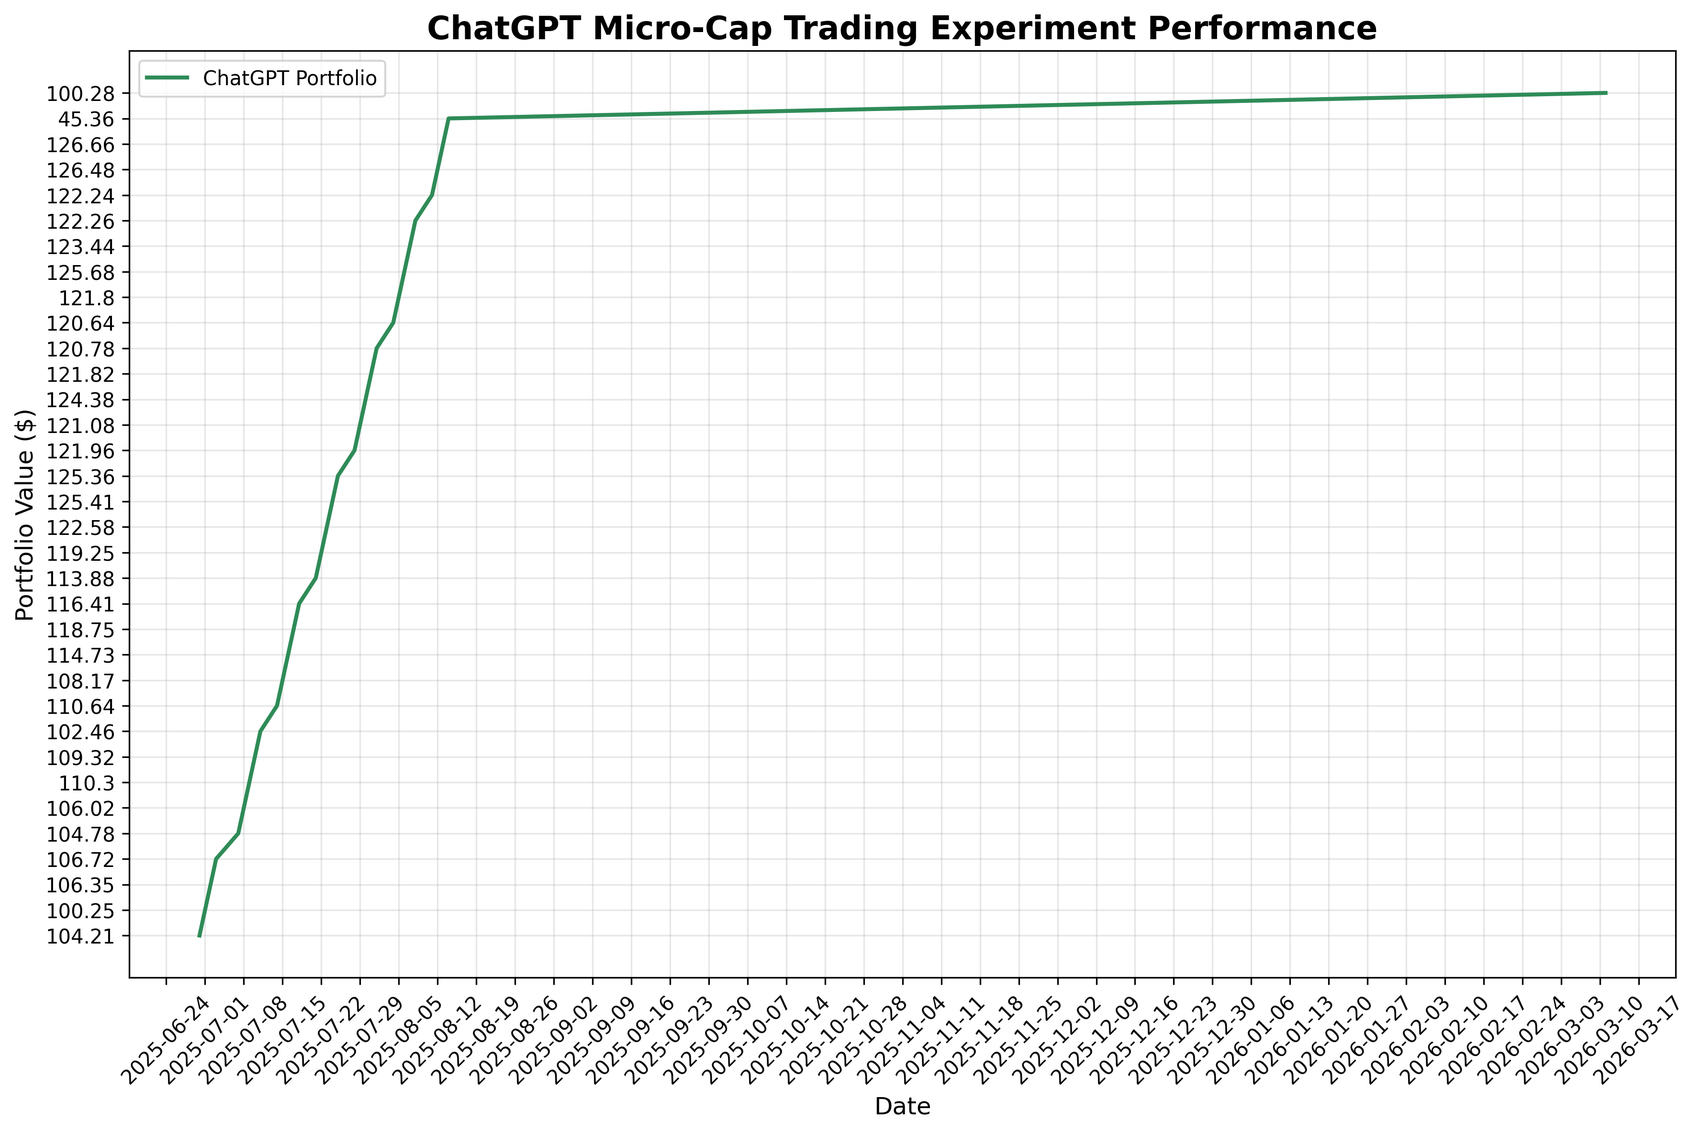
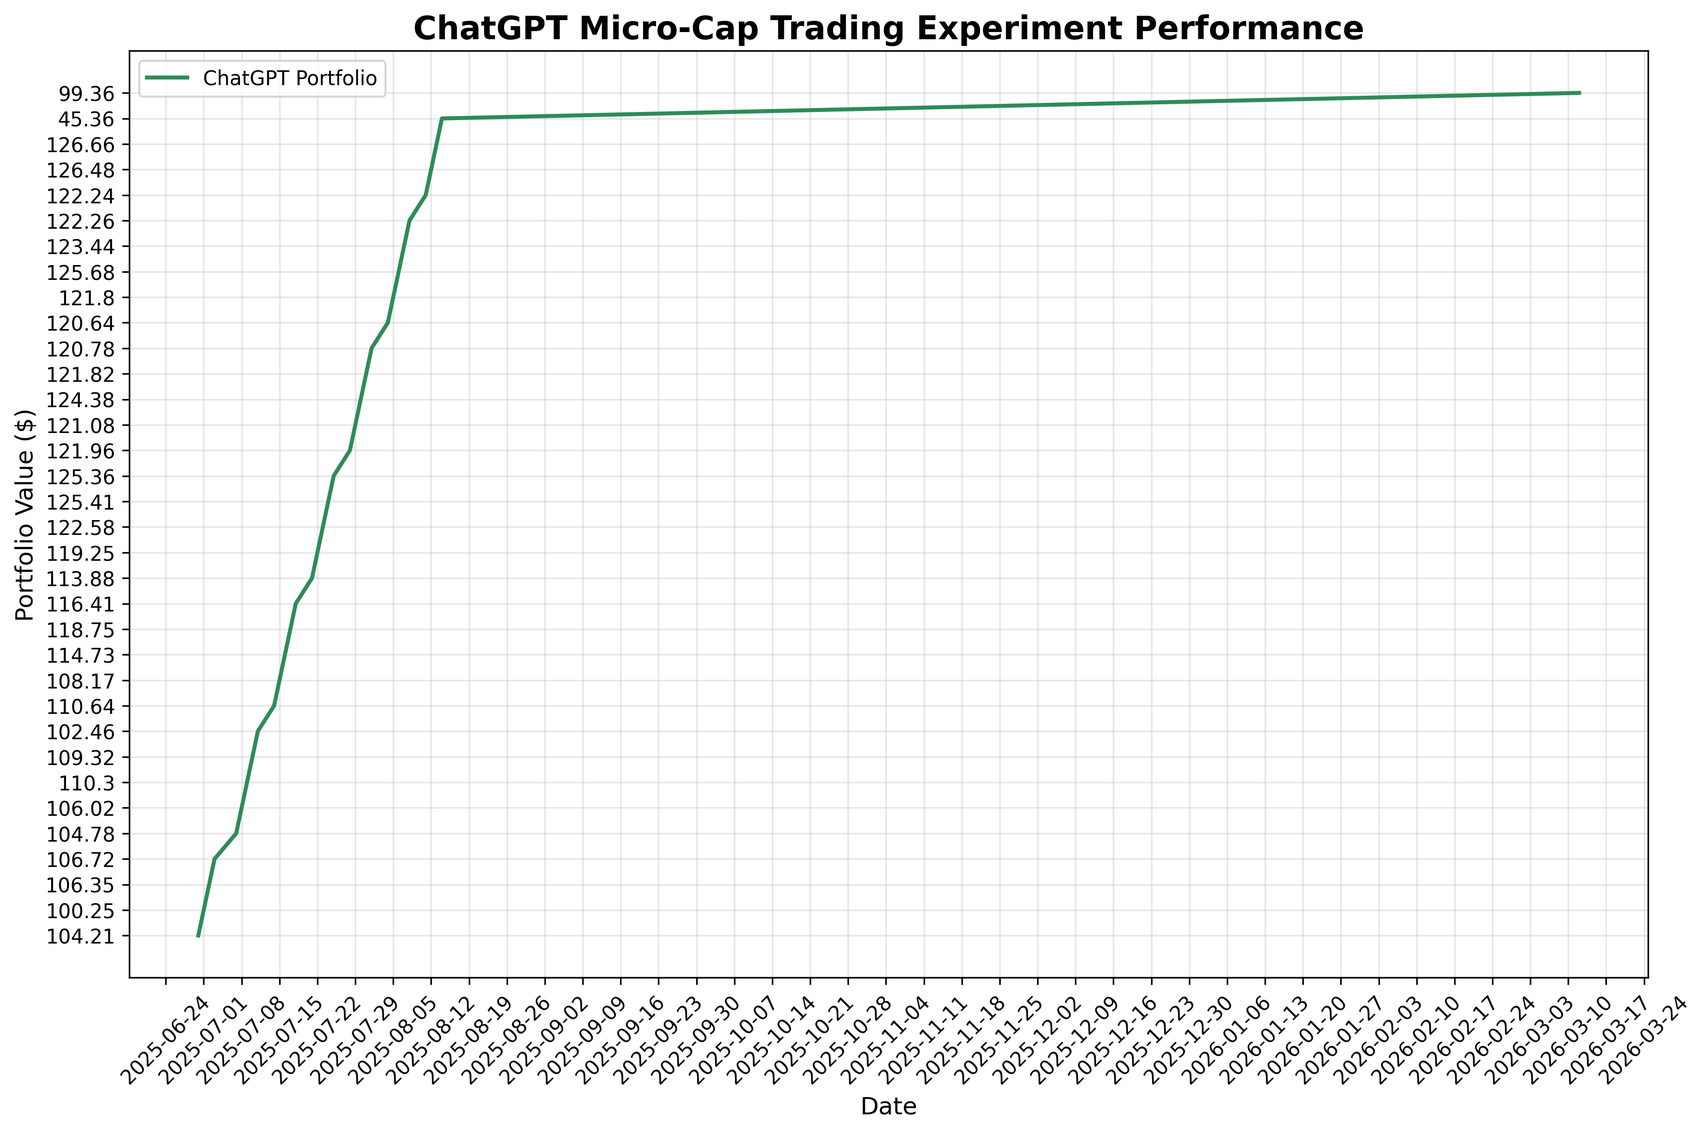
deploy: e15cad030d70fb3fbb51f9df6e22fa70c2f175c0

diff --git a/index.html b/index.html
@@ -101,11 +101,11 @@
                 <div class="stat-label">Total Equity</div>
             </div>
             <div class="stat-card">
-                <div class="stat-value" id="total-trades">12</div>
+                <div class="stat-value" id="total-trades">13</div>
                 <div class="stat-label">Total Trades</div>
             </div>
             <div class="stat-card">
-                <div class="stat-value" id="last-updated">2026-03-11</div>
+                <div class="stat-value" id="last-updated">2026-03-12</div>
                 <div class="stat-label">Last Updated</div>
             </div>
         </div>
@@ -160,8 +160,8 @@
     
     <script>
         // Portfolio data
-        const portfolioData = JSON.parse("[{&quot;Date&quot;: &quot;2025-08-11&quot;, &quot;Ticker&quot;: &quot;ABEO&quot;, &quot;Shares&quot;: 4.0, &quot;Buy Price&quot;: 5.77, &quot;Cost Basis&quot;: 23.08, &quot;Stop Loss&quot;: 4.9, &quot;Current Price&quot;: 6.28, &quot;Total Value&quot;: 25.12, &quot;PnL&quot;: 2.04, &quot;Action&quot;: &quot;HOLD&quot;, &quot;Cash Balance&quot;: NaN, &quot;Total Equity&quot;: NaN}, {&quot;Date&quot;: &quot;2025-08-11&quot;, &quot;Ticker&quot;: &quot;ACTU&quot;, &quot;Shares&quot;: 6.0, &quot;Buy Price&quot;: 5.75, &quot;Cost Basis&quot;: 34.5, &quot;Stop Loss&quot;: 4.89, &quot;Current Price&quot;: 8.01, &quot;Total Value&quot;: 48.06, &quot;PnL&quot;: 13.56, &quot;Action&quot;: &quot;HOLD&quot;, &quot;Cash Balance&quot;: NaN, &quot;Total Equity&quot;: NaN}, {&quot;Date&quot;: &quot;2025-08-11&quot;, &quot;Ticker&quot;: &quot;ESPR&quot;, &quot;Shares&quot;: 2.0, &quot;Buy Price&quot;: 1.91, &quot;Cost Basis&quot;: 3.82, &quot;Stop Loss&quot;: 1.6, &quot;Current Price&quot;: 1.85, &quot;Total Value&quot;: 3.7, &quot;PnL&quot;: -0.12, &quot;Action&quot;: &quot;HOLD&quot;, &quot;Cash Balance&quot;: NaN, &quot;Total Equity&quot;: NaN}, {&quot;Date&quot;: &quot;2025-08-11&quot;, &quot;Ticker&quot;: &quot;TOTAL&quot;, &quot;Shares&quot;: NaN, &quot;Buy Price&quot;: NaN, &quot;Cost Basis&quot;: NaN, &quot;Stop Loss&quot;: NaN, &quot;Current Price&quot;: NaN, &quot;Total Value&quot;: 76.88, &quot;PnL&quot;: 15.48, &quot;Action&quot;: NaN, &quot;Cash Balance&quot;: 45.36, &quot;Total Equity&quot;: &quot;122.24&quot;}, {&quot;Date&quot;: &quot;2025-08-12&quot;, &quot;Ticker&quot;: &quot;ABEO&quot;, &quot;Shares&quot;: 4.0, &quot;Buy Price&quot;: 5.77, &quot;Cost Basis&quot;: 23.08, &quot;Stop Loss&quot;: 4.9, &quot;Current Price&quot;: 6.38, &quot;Total Value&quot;: 25.52, &quot;PnL&quot;: 2.44, &quot;Action&quot;: &quot;HOLD&quot;, &quot;Cash Balance&quot;: NaN, &quot;Total Equity&quot;: NaN}, {&quot;Date&quot;: &quot;2025-08-12&quot;, &quot;Ticker&quot;: &quot;ACTU&quot;, &quot;Shares&quot;: 6.0, &quot;Buy Price&quot;: 5.75, &quot;Cost Basis&quot;: 34.5, &quot;Stop Loss&quot;: 4.89, &quot;Current Price&quot;: 8.67, &quot;Total Value&quot;: 52.02, &quot;PnL&quot;: 17.52, &quot;Action&quot;: &quot;HOLD&quot;, &quot;Cash Balance&quot;: NaN, &quot;Total Equity&quot;: NaN}, {&quot;Date&quot;: &quot;2025-08-12&quot;, &quot;Ticker&quot;: &quot;ESPR&quot;, &quot;Shares&quot;: 2.0, &quot;Buy Price&quot;: 1.91, &quot;Cost Basis&quot;: 3.82, &quot;Stop Loss&quot;: 1.6, &quot;Current Price&quot;: 1.79, &quot;Total Value&quot;: 3.58, &quot;PnL&quot;: -0.24, &quot;Action&quot;: &quot;HOLD&quot;, &quot;Cash Balance&quot;: NaN, &quot;Total Equity&quot;: NaN}, {&quot;Date&quot;: &quot;2025-08-12&quot;, &quot;Ticker&quot;: &quot;TOTAL&quot;, &quot;Shares&quot;: NaN, &quot;Buy Price&quot;: NaN, &quot;Cost Basis&quot;: NaN, &quot;Stop Loss&quot;: NaN, &quot;Current Price&quot;: NaN, &quot;Total Value&quot;: 81.12, &quot;PnL&quot;: 19.72, &quot;Action&quot;: NaN, &quot;Cash Balance&quot;: 45.36, &quot;Total Equity&quot;: &quot;126.48&quot;}, {&quot;Date&quot;: &quot;2025-08-13&quot;, &quot;Ticker&quot;: &quot;ABEO&quot;, &quot;Shares&quot;: 4.0, &quot;Buy Price&quot;: 5.77, &quot;Cost Basis&quot;: 23.08, &quot;Stop Loss&quot;: 4.9, &quot;Current Price&quot;: 6.56, &quot;Total Value&quot;: 26.24, &quot;PnL&quot;: 3.16, &quot;Action&quot;: &quot;HOLD&quot;, &quot;Cash Balance&quot;: NaN, &quot;Total Equity&quot;: NaN}, {&quot;Date&quot;: &quot;2025-08-13&quot;, &quot;Ticker&quot;: &quot;ACTU&quot;, &quot;Shares&quot;: 6.0, &quot;Buy Price&quot;: 5.75, &quot;Cost Basis&quot;: 34.5, &quot;Stop Loss&quot;: 4.89, &quot;Current Price&quot;: 8.53, &quot;Total Value&quot;: 51.18, &quot;PnL&quot;: 16.68, &quot;Action&quot;: &quot;HOLD&quot;, &quot;Cash Balance&quot;: NaN, &quot;Total Equity&quot;: NaN}, {&quot;Date&quot;: &quot;2025-08-13&quot;, &quot;Ticker&quot;: &quot;ESPR&quot;, &quot;Shares&quot;: 2.0, &quot;Buy Price&quot;: 1.91, &quot;Cost Basis&quot;: 3.82, &quot;Stop Loss&quot;: 1.6, &quot;Current Price&quot;: 1.94, &quot;Total Value&quot;: 3.88, &quot;PnL&quot;: 0.06, &quot;Action&quot;: &quot;HOLD&quot;, &quot;Cash Balance&quot;: NaN, &quot;Total Equity&quot;: NaN}, {&quot;Date&quot;: &quot;2025-08-13&quot;, &quot;Ticker&quot;: &quot;TOTAL&quot;, &quot;Shares&quot;: NaN, &quot;Buy Price&quot;: NaN, &quot;Cost Basis&quot;: NaN, &quot;Stop Loss&quot;: NaN, &quot;Current Price&quot;: NaN, &quot;Total Value&quot;: 81.3, &quot;PnL&quot;: 19.9, &quot;Action&quot;: NaN, &quot;Cash Balance&quot;: 45.36, &quot;Total Equity&quot;: &quot;126.66&quot;}, {&quot;Date&quot;: &quot;2025-08-14&quot;, &quot;Ticker&quot;: &quot;ABEO&quot;, &quot;Shares&quot;: 4.0, &quot;Buy Price&quot;: 5.77, &quot;Cost Basis&quot;: 23.08, &quot;Stop Loss&quot;: 4.9, &quot;Current Price&quot;: NaN, &quot;Total Value&quot;: NaN, &quot;PnL&quot;: NaN, &quot;Action&quot;: &quot;NO DATA&quot;, &quot;Cash Balance&quot;: NaN, &quot;Total Equity&quot;: NaN}, {&quot;Date&quot;: &quot;2025-08-14&quot;, &quot;Ticker&quot;: &quot;ACTU&quot;, &quot;Shares&quot;: 6.0, &quot;Buy Price&quot;: 5.75, &quot;Cost Basis&quot;: 34.5, &quot;Stop Loss&quot;: 4.89, &quot;Current Price&quot;: NaN, &quot;Total Value&quot;: NaN, &quot;PnL&quot;: NaN, &quot;Action&quot;: &quot;NO DATA&quot;, &quot;Cash Balance&quot;: NaN, &quot;Total Equity&quot;: NaN}, {&quot;Date&quot;: &quot;2025-08-14&quot;, &quot;Ticker&quot;: &quot;ESPR&quot;, &quot;Shares&quot;: 2.0, &quot;Buy Price&quot;: 1.91, &quot;Cost Basis&quot;: 3.82, &quot;Stop Loss&quot;: 1.6, &quot;Current Price&quot;: NaN, &quot;Total Value&quot;: NaN, &quot;PnL&quot;: NaN, &quot;Action&quot;: &quot;NO DATA&quot;, &quot;Cash Balance&quot;: NaN, &quot;Total Equity&quot;: NaN}, {&quot;Date&quot;: &quot;2025-08-14&quot;, &quot;Ticker&quot;: &quot;TOTAL&quot;, &quot;Shares&quot;: NaN, &quot;Buy Price&quot;: NaN, &quot;Cost Basis&quot;: NaN, &quot;Stop Loss&quot;: NaN, &quot;Current Price&quot;: NaN, &quot;Total Value&quot;: 0.0, &quot;PnL&quot;: 0.0, &quot;Action&quot;: NaN, &quot;Cash Balance&quot;: 45.36, &quot;Total Equity&quot;: &quot;45.36&quot;}, {&quot;Date&quot;: &quot;2026-03-11&quot;, &quot;Ticker&quot;: &quot;ABEO&quot;, &quot;Shares&quot;: 4.0, &quot;Buy Price&quot;: 5.77, &quot;Cost Basis&quot;: 23.08, &quot;Stop Loss&quot;: 4.9, &quot;Current Price&quot;: 5.06, &quot;Total Value&quot;: 20.24, &quot;PnL&quot;: -2.84, &quot;Action&quot;: &quot;HOLD&quot;, &quot;Cash Balance&quot;: NaN, &quot;Total Equity&quot;: NaN}, {&quot;Date&quot;: &quot;2026-03-11&quot;, &quot;Ticker&quot;: &quot;ACTU&quot;, &quot;Shares&quot;: 6.0, &quot;Buy Price&quot;: 5.75, &quot;Cost Basis&quot;: 34.5, &quot;Stop Loss&quot;: 4.89, &quot;Current Price&quot;: 4.89, &quot;Total Value&quot;: 29.34, &quot;PnL&quot;: -5.16, &quot;Action&quot;: &quot;SELL - Stop Loss Triggered&quot;, &quot;Cash Balance&quot;: NaN, &quot;Total Equity&quot;: NaN}, {&quot;Date&quot;: &quot;2026-03-11&quot;, &quot;Ticker&quot;: &quot;ESPR&quot;, &quot;Shares&quot;: 2.0, &quot;Buy Price&quot;: 1.91, &quot;Cost Basis&quot;: 3.82, &quot;Stop Loss&quot;: 1.6, &quot;Current Price&quot;: 2.67, &quot;Total Value&quot;: 5.34, &quot;PnL&quot;: 1.52, &quot;Action&quot;: &quot;HOLD&quot;, &quot;Cash Balance&quot;: NaN, &quot;Total Equity&quot;: NaN}, {&quot;Date&quot;: &quot;2026-03-11&quot;, &quot;Ticker&quot;: &quot;TOTAL&quot;, &quot;Shares&quot;: NaN, &quot;Buy Price&quot;: NaN, &quot;Cost Basis&quot;: NaN, &quot;Stop Loss&quot;: NaN, &quot;Current Price&quot;: NaN, &quot;Total Value&quot;: 25.58, &quot;PnL&quot;: -1.32, &quot;Action&quot;: NaN, &quot;Cash Balance&quot;: 74.7, &quot;Total Equity&quot;: &quot;100.28&quot;}]");
-        const tradeData = JSON.parse("[{&quot;Date&quot;: &quot;2025-07-08&quot;, &quot;Ticker&quot;: &quot;IINN&quot;, &quot;Shares Bought&quot;: 20.0, &quot;Buy Price&quot;: 1.5, &quot;Cost Basis&quot;: 30.0, &quot;PnL&quot;: 0.0, &quot;Reason&quot;: &quot;MANUAL BUY - New position&quot;, &quot;Shares Sold&quot;: NaN, &quot;Sell Price&quot;: NaN}, {&quot;Date&quot;: &quot;2025-07-21&quot;, &quot;Ticker&quot;: &quot;CADL&quot;, &quot;Shares Bought&quot;: NaN, &quot;Buy Price&quot;: NaN, &quot;Cost Basis&quot;: 25.2, &quot;PnL&quot;: 8.5, &quot;Reason&quot;: &quot;MANUAL SELL - GAIN CAPITAL FOR ACTU&quot;, &quot;Shares Sold&quot;: 5.0, &quot;Sell Price&quot;: 6.59}, {&quot;Date&quot;: &quot;2025-07-21&quot;, &quot;Ticker&quot;: &quot;ACTU&quot;, &quot;Shares Bought&quot;: 6.0, &quot;Buy Price&quot;: 5.75, &quot;Cost Basis&quot;: 34.5, &quot;PnL&quot;: 0.0, &quot;Reason&quot;: &quot;MANUAL BUY - New position&quot;, &quot;Shares Sold&quot;: NaN, &quot;Sell Price&quot;: NaN}, {&quot;Date&quot;: &quot;2025-07-28&quot;, &quot;Ticker&quot;: &quot;IINN&quot;, &quot;Shares Bought&quot;: NaN, &quot;Buy Price&quot;: NaN, &quot;Cost Basis&quot;: 9.0, &quot;PnL&quot;: -0.5400000000000009, &quot;Reason&quot;: &quot;MANUAL SELL - POSITION REDUCTION&quot;, &quot;Shares Sold&quot;: 6.0, &quot;Sell Price&quot;: 1.41}, {&quot;Date&quot;: &quot;2025-07-29&quot;, &quot;Ticker&quot;: &quot;AZTR&quot;, &quot;Shares Bought&quot;: NaN, &quot;Buy Price&quot;: NaN, &quot;Cost Basis&quot;: 13.75, &quot;PnL&quot;: -2.75, &quot;Reason&quot;: &quot;MANUAL SELL - DILUTION RISK&quot;, &quot;Shares Sold&quot;: 55.0, &quot;Sell Price&quot;: 0.2}, {&quot;Date&quot;: &quot;2025-08-01&quot;, &quot;Ticker&quot;: &quot;IINN&quot;, &quot;Shares Bought&quot;: 2.0, &quot;Buy Price&quot;: 1.74, &quot;Cost Basis&quot;: 3.48, &quot;PnL&quot;: 0.0, &quot;Reason&quot;: &quot;MANUAL BUY - New position&quot;, &quot;Shares Sold&quot;: NaN, &quot;Sell Price&quot;: NaN}, {&quot;Date&quot;: &quot;2025-08-01&quot;, &quot;Ticker&quot;: &quot;ABEO&quot;, &quot;Shares Bought&quot;: NaN, &quot;Buy Price&quot;: NaN, &quot;Cost Basis&quot;: 11.54, &quot;PnL&quot;: 1.200000000000001, &quot;Reason&quot;: &quot;MANUAL SELL - TRIM AFTER SUPPORT LOSS&quot;, &quot;Shares Sold&quot;: 2.0, &quot;Sell Price&quot;: 6.37}, {&quot;Date&quot;: &quot;2025-08-07&quot;, &quot;Ticker&quot;: &quot;ESPR&quot;, &quot;Shares Bought&quot;: 2.0, &quot;Buy Price&quot;: 1.91, &quot;Cost Basis&quot;: 3.82, &quot;PnL&quot;: 0.0, &quot;Reason&quot;: &quot;MANUAL BUY - New position&quot;, &quot;Shares Sold&quot;: NaN, &quot;Sell Price&quot;: NaN}, {&quot;Date&quot;: &quot;2025-08-08&quot;, &quot;Ticker&quot;: &quot;IINN&quot;, &quot;Shares Bought&quot;: NaN, &quot;Buy Price&quot;: NaN, &quot;Cost Basis&quot;: 1.5, &quot;PnL&quot;: -6.4, &quot;Reason&quot;: &quot;AUTOMATED SELL - STOPLOSS TRIGGERED&quot;, &quot;Shares Sold&quot;: 16.0, &quot;Sell Price&quot;: 1.1}, {&quot;Date&quot;: &quot;2026-03-11&quot;, &quot;Ticker&quot;: &quot;ACTU&quot;, &quot;Shares Bought&quot;: NaN, &quot;Buy Price&quot;: NaN, &quot;Cost Basis&quot;: 5.75, &quot;PnL&quot;: -5.16, &quot;Reason&quot;: &quot;AUTOMATED SELL - STOPLOSS TRIGGERED&quot;, &quot;Shares Sold&quot;: 6.0, &quot;Sell Price&quot;: 4.89}]");
+        const portfolioData = JSON.parse("[{&quot;Date&quot;: &quot;2025-08-11&quot;, &quot;Ticker&quot;: &quot;ABEO&quot;, &quot;Shares&quot;: 4.0, &quot;Buy Price&quot;: 5.77, &quot;Cost Basis&quot;: 23.08, &quot;Stop Loss&quot;: 4.9, &quot;Current Price&quot;: 6.28, &quot;Total Value&quot;: 25.12, &quot;PnL&quot;: 2.04, &quot;Action&quot;: &quot;HOLD&quot;, &quot;Cash Balance&quot;: NaN, &quot;Total Equity&quot;: NaN}, {&quot;Date&quot;: &quot;2025-08-11&quot;, &quot;Ticker&quot;: &quot;ACTU&quot;, &quot;Shares&quot;: 6.0, &quot;Buy Price&quot;: 5.75, &quot;Cost Basis&quot;: 34.5, &quot;Stop Loss&quot;: 4.89, &quot;Current Price&quot;: 8.01, &quot;Total Value&quot;: 48.06, &quot;PnL&quot;: 13.56, &quot;Action&quot;: &quot;HOLD&quot;, &quot;Cash Balance&quot;: NaN, &quot;Total Equity&quot;: NaN}, {&quot;Date&quot;: &quot;2025-08-11&quot;, &quot;Ticker&quot;: &quot;ESPR&quot;, &quot;Shares&quot;: 2.0, &quot;Buy Price&quot;: 1.91, &quot;Cost Basis&quot;: 3.82, &quot;Stop Loss&quot;: 1.6, &quot;Current Price&quot;: 1.85, &quot;Total Value&quot;: 3.7, &quot;PnL&quot;: -0.12, &quot;Action&quot;: &quot;HOLD&quot;, &quot;Cash Balance&quot;: NaN, &quot;Total Equity&quot;: NaN}, {&quot;Date&quot;: &quot;2025-08-11&quot;, &quot;Ticker&quot;: &quot;TOTAL&quot;, &quot;Shares&quot;: NaN, &quot;Buy Price&quot;: NaN, &quot;Cost Basis&quot;: NaN, &quot;Stop Loss&quot;: NaN, &quot;Current Price&quot;: NaN, &quot;Total Value&quot;: 76.88, &quot;PnL&quot;: 15.48, &quot;Action&quot;: NaN, &quot;Cash Balance&quot;: 45.36, &quot;Total Equity&quot;: &quot;122.24&quot;}, {&quot;Date&quot;: &quot;2025-08-12&quot;, &quot;Ticker&quot;: &quot;ABEO&quot;, &quot;Shares&quot;: 4.0, &quot;Buy Price&quot;: 5.77, &quot;Cost Basis&quot;: 23.08, &quot;Stop Loss&quot;: 4.9, &quot;Current Price&quot;: 6.38, &quot;Total Value&quot;: 25.52, &quot;PnL&quot;: 2.44, &quot;Action&quot;: &quot;HOLD&quot;, &quot;Cash Balance&quot;: NaN, &quot;Total Equity&quot;: NaN}, {&quot;Date&quot;: &quot;2025-08-12&quot;, &quot;Ticker&quot;: &quot;ACTU&quot;, &quot;Shares&quot;: 6.0, &quot;Buy Price&quot;: 5.75, &quot;Cost Basis&quot;: 34.5, &quot;Stop Loss&quot;: 4.89, &quot;Current Price&quot;: 8.67, &quot;Total Value&quot;: 52.02, &quot;PnL&quot;: 17.52, &quot;Action&quot;: &quot;HOLD&quot;, &quot;Cash Balance&quot;: NaN, &quot;Total Equity&quot;: NaN}, {&quot;Date&quot;: &quot;2025-08-12&quot;, &quot;Ticker&quot;: &quot;ESPR&quot;, &quot;Shares&quot;: 2.0, &quot;Buy Price&quot;: 1.91, &quot;Cost Basis&quot;: 3.82, &quot;Stop Loss&quot;: 1.6, &quot;Current Price&quot;: 1.79, &quot;Total Value&quot;: 3.58, &quot;PnL&quot;: -0.24, &quot;Action&quot;: &quot;HOLD&quot;, &quot;Cash Balance&quot;: NaN, &quot;Total Equity&quot;: NaN}, {&quot;Date&quot;: &quot;2025-08-12&quot;, &quot;Ticker&quot;: &quot;TOTAL&quot;, &quot;Shares&quot;: NaN, &quot;Buy Price&quot;: NaN, &quot;Cost Basis&quot;: NaN, &quot;Stop Loss&quot;: NaN, &quot;Current Price&quot;: NaN, &quot;Total Value&quot;: 81.12, &quot;PnL&quot;: 19.72, &quot;Action&quot;: NaN, &quot;Cash Balance&quot;: 45.36, &quot;Total Equity&quot;: &quot;126.48&quot;}, {&quot;Date&quot;: &quot;2025-08-13&quot;, &quot;Ticker&quot;: &quot;ABEO&quot;, &quot;Shares&quot;: 4.0, &quot;Buy Price&quot;: 5.77, &quot;Cost Basis&quot;: 23.08, &quot;Stop Loss&quot;: 4.9, &quot;Current Price&quot;: 6.56, &quot;Total Value&quot;: 26.24, &quot;PnL&quot;: 3.16, &quot;Action&quot;: &quot;HOLD&quot;, &quot;Cash Balance&quot;: NaN, &quot;Total Equity&quot;: NaN}, {&quot;Date&quot;: &quot;2025-08-13&quot;, &quot;Ticker&quot;: &quot;ACTU&quot;, &quot;Shares&quot;: 6.0, &quot;Buy Price&quot;: 5.75, &quot;Cost Basis&quot;: 34.5, &quot;Stop Loss&quot;: 4.89, &quot;Current Price&quot;: 8.53, &quot;Total Value&quot;: 51.18, &quot;PnL&quot;: 16.68, &quot;Action&quot;: &quot;HOLD&quot;, &quot;Cash Balance&quot;: NaN, &quot;Total Equity&quot;: NaN}, {&quot;Date&quot;: &quot;2025-08-13&quot;, &quot;Ticker&quot;: &quot;ESPR&quot;, &quot;Shares&quot;: 2.0, &quot;Buy Price&quot;: 1.91, &quot;Cost Basis&quot;: 3.82, &quot;Stop Loss&quot;: 1.6, &quot;Current Price&quot;: 1.94, &quot;Total Value&quot;: 3.88, &quot;PnL&quot;: 0.06, &quot;Action&quot;: &quot;HOLD&quot;, &quot;Cash Balance&quot;: NaN, &quot;Total Equity&quot;: NaN}, {&quot;Date&quot;: &quot;2025-08-13&quot;, &quot;Ticker&quot;: &quot;TOTAL&quot;, &quot;Shares&quot;: NaN, &quot;Buy Price&quot;: NaN, &quot;Cost Basis&quot;: NaN, &quot;Stop Loss&quot;: NaN, &quot;Current Price&quot;: NaN, &quot;Total Value&quot;: 81.3, &quot;PnL&quot;: 19.9, &quot;Action&quot;: NaN, &quot;Cash Balance&quot;: 45.36, &quot;Total Equity&quot;: &quot;126.66&quot;}, {&quot;Date&quot;: &quot;2025-08-14&quot;, &quot;Ticker&quot;: &quot;ABEO&quot;, &quot;Shares&quot;: 4.0, &quot;Buy Price&quot;: 5.77, &quot;Cost Basis&quot;: 23.08, &quot;Stop Loss&quot;: 4.9, &quot;Current Price&quot;: NaN, &quot;Total Value&quot;: NaN, &quot;PnL&quot;: NaN, &quot;Action&quot;: &quot;NO DATA&quot;, &quot;Cash Balance&quot;: NaN, &quot;Total Equity&quot;: NaN}, {&quot;Date&quot;: &quot;2025-08-14&quot;, &quot;Ticker&quot;: &quot;ACTU&quot;, &quot;Shares&quot;: 6.0, &quot;Buy Price&quot;: 5.75, &quot;Cost Basis&quot;: 34.5, &quot;Stop Loss&quot;: 4.89, &quot;Current Price&quot;: NaN, &quot;Total Value&quot;: NaN, &quot;PnL&quot;: NaN, &quot;Action&quot;: &quot;NO DATA&quot;, &quot;Cash Balance&quot;: NaN, &quot;Total Equity&quot;: NaN}, {&quot;Date&quot;: &quot;2025-08-14&quot;, &quot;Ticker&quot;: &quot;ESPR&quot;, &quot;Shares&quot;: 2.0, &quot;Buy Price&quot;: 1.91, &quot;Cost Basis&quot;: 3.82, &quot;Stop Loss&quot;: 1.6, &quot;Current Price&quot;: NaN, &quot;Total Value&quot;: NaN, &quot;PnL&quot;: NaN, &quot;Action&quot;: &quot;NO DATA&quot;, &quot;Cash Balance&quot;: NaN, &quot;Total Equity&quot;: NaN}, {&quot;Date&quot;: &quot;2025-08-14&quot;, &quot;Ticker&quot;: &quot;TOTAL&quot;, &quot;Shares&quot;: NaN, &quot;Buy Price&quot;: NaN, &quot;Cost Basis&quot;: NaN, &quot;Stop Loss&quot;: NaN, &quot;Current Price&quot;: NaN, &quot;Total Value&quot;: 0.0, &quot;PnL&quot;: 0.0, &quot;Action&quot;: NaN, &quot;Cash Balance&quot;: 45.36, &quot;Total Equity&quot;: &quot;45.36&quot;}, {&quot;Date&quot;: &quot;2026-03-12&quot;, &quot;Ticker&quot;: &quot;ABEO&quot;, &quot;Shares&quot;: 4.0, &quot;Buy Price&quot;: 5.77, &quot;Cost Basis&quot;: 23.08, &quot;Stop Loss&quot;: 4.9, &quot;Current Price&quot;: 4.9, &quot;Total Value&quot;: 19.6, &quot;PnL&quot;: -3.48, &quot;Action&quot;: &quot;SELL - Stop Loss Triggered&quot;, &quot;Cash Balance&quot;: NaN, &quot;Total Equity&quot;: NaN}, {&quot;Date&quot;: &quot;2026-03-12&quot;, &quot;Ticker&quot;: &quot;ACTU&quot;, &quot;Shares&quot;: 6.0, &quot;Buy Price&quot;: 5.75, &quot;Cost Basis&quot;: 34.5, &quot;Stop Loss&quot;: 4.89, &quot;Current Price&quot;: 4.89, &quot;Total Value&quot;: 29.34, &quot;PnL&quot;: -5.16, &quot;Action&quot;: &quot;SELL - Stop Loss Triggered&quot;, &quot;Cash Balance&quot;: NaN, &quot;Total Equity&quot;: NaN}, {&quot;Date&quot;: &quot;2026-03-12&quot;, &quot;Ticker&quot;: &quot;ESPR&quot;, &quot;Shares&quot;: 2.0, &quot;Buy Price&quot;: 1.91, &quot;Cost Basis&quot;: 3.82, &quot;Stop Loss&quot;: 1.6, &quot;Current Price&quot;: 2.53, &quot;Total Value&quot;: 5.06, &quot;PnL&quot;: 1.24, &quot;Action&quot;: &quot;HOLD&quot;, &quot;Cash Balance&quot;: NaN, &quot;Total Equity&quot;: NaN}, {&quot;Date&quot;: &quot;2026-03-12&quot;, &quot;Ticker&quot;: &quot;TOTAL&quot;, &quot;Shares&quot;: NaN, &quot;Buy Price&quot;: NaN, &quot;Cost Basis&quot;: NaN, &quot;Stop Loss&quot;: NaN, &quot;Current Price&quot;: NaN, &quot;Total Value&quot;: 5.06, &quot;PnL&quot;: 1.24, &quot;Action&quot;: NaN, &quot;Cash Balance&quot;: 94.3, &quot;Total Equity&quot;: &quot;99.36&quot;}]");
+        const tradeData = JSON.parse("[{&quot;Date&quot;: &quot;2025-07-21&quot;, &quot;Ticker&quot;: &quot;CADL&quot;, &quot;Shares Bought&quot;: NaN, &quot;Buy Price&quot;: NaN, &quot;Cost Basis&quot;: 25.2, &quot;PnL&quot;: 8.5, &quot;Reason&quot;: &quot;MANUAL SELL - GAIN CAPITAL FOR ACTU&quot;, &quot;Shares Sold&quot;: 5.0, &quot;Sell Price&quot;: 6.59}, {&quot;Date&quot;: &quot;2025-07-21&quot;, &quot;Ticker&quot;: &quot;ACTU&quot;, &quot;Shares Bought&quot;: 6.0, &quot;Buy Price&quot;: 5.75, &quot;Cost Basis&quot;: 34.5, &quot;PnL&quot;: 0.0, &quot;Reason&quot;: &quot;MANUAL BUY - New position&quot;, &quot;Shares Sold&quot;: NaN, &quot;Sell Price&quot;: NaN}, {&quot;Date&quot;: &quot;2025-07-28&quot;, &quot;Ticker&quot;: &quot;IINN&quot;, &quot;Shares Bought&quot;: NaN, &quot;Buy Price&quot;: NaN, &quot;Cost Basis&quot;: 9.0, &quot;PnL&quot;: -0.5400000000000009, &quot;Reason&quot;: &quot;MANUAL SELL - POSITION REDUCTION&quot;, &quot;Shares Sold&quot;: 6.0, &quot;Sell Price&quot;: 1.41}, {&quot;Date&quot;: &quot;2025-07-29&quot;, &quot;Ticker&quot;: &quot;AZTR&quot;, &quot;Shares Bought&quot;: NaN, &quot;Buy Price&quot;: NaN, &quot;Cost Basis&quot;: 13.75, &quot;PnL&quot;: -2.75, &quot;Reason&quot;: &quot;MANUAL SELL - DILUTION RISK&quot;, &quot;Shares Sold&quot;: 55.0, &quot;Sell Price&quot;: 0.2}, {&quot;Date&quot;: &quot;2025-08-01&quot;, &quot;Ticker&quot;: &quot;IINN&quot;, &quot;Shares Bought&quot;: 2.0, &quot;Buy Price&quot;: 1.74, &quot;Cost Basis&quot;: 3.48, &quot;PnL&quot;: 0.0, &quot;Reason&quot;: &quot;MANUAL BUY - New position&quot;, &quot;Shares Sold&quot;: NaN, &quot;Sell Price&quot;: NaN}, {&quot;Date&quot;: &quot;2025-08-01&quot;, &quot;Ticker&quot;: &quot;ABEO&quot;, &quot;Shares Bought&quot;: NaN, &quot;Buy Price&quot;: NaN, &quot;Cost Basis&quot;: 11.54, &quot;PnL&quot;: 1.200000000000001, &quot;Reason&quot;: &quot;MANUAL SELL - TRIM AFTER SUPPORT LOSS&quot;, &quot;Shares Sold&quot;: 2.0, &quot;Sell Price&quot;: 6.37}, {&quot;Date&quot;: &quot;2025-08-07&quot;, &quot;Ticker&quot;: &quot;ESPR&quot;, &quot;Shares Bought&quot;: 2.0, &quot;Buy Price&quot;: 1.91, &quot;Cost Basis&quot;: 3.82, &quot;PnL&quot;: 0.0, &quot;Reason&quot;: &quot;MANUAL BUY - New position&quot;, &quot;Shares Sold&quot;: NaN, &quot;Sell Price&quot;: NaN}, {&quot;Date&quot;: &quot;2025-08-08&quot;, &quot;Ticker&quot;: &quot;IINN&quot;, &quot;Shares Bought&quot;: NaN, &quot;Buy Price&quot;: NaN, &quot;Cost Basis&quot;: 1.5, &quot;PnL&quot;: -6.4, &quot;Reason&quot;: &quot;AUTOMATED SELL - STOPLOSS TRIGGERED&quot;, &quot;Shares Sold&quot;: 16.0, &quot;Sell Price&quot;: 1.1}, {&quot;Date&quot;: &quot;2026-03-12&quot;, &quot;Ticker&quot;: &quot;ABEO&quot;, &quot;Shares Bought&quot;: NaN, &quot;Buy Price&quot;: NaN, &quot;Cost Basis&quot;: 5.77, &quot;PnL&quot;: -3.48, &quot;Reason&quot;: &quot;AUTOMATED SELL - STOPLOSS TRIGGERED&quot;, &quot;Shares Sold&quot;: 4.0, &quot;Sell Price&quot;: 4.9}, {&quot;Date&quot;: &quot;2026-03-12&quot;, &quot;Ticker&quot;: &quot;ACTU&quot;, &quot;Shares Bought&quot;: NaN, &quot;Buy Price&quot;: NaN, &quot;Cost Basis&quot;: 5.75, &quot;PnL&quot;: -5.16, &quot;Reason&quot;: &quot;AUTOMATED SELL - STOPLOSS TRIGGERED&quot;, &quot;Shares Sold&quot;: 6.0, &quot;Sell Price&quot;: 4.89}]");
         
         // Update total equity
         if (portfolioData.length > 0) {
